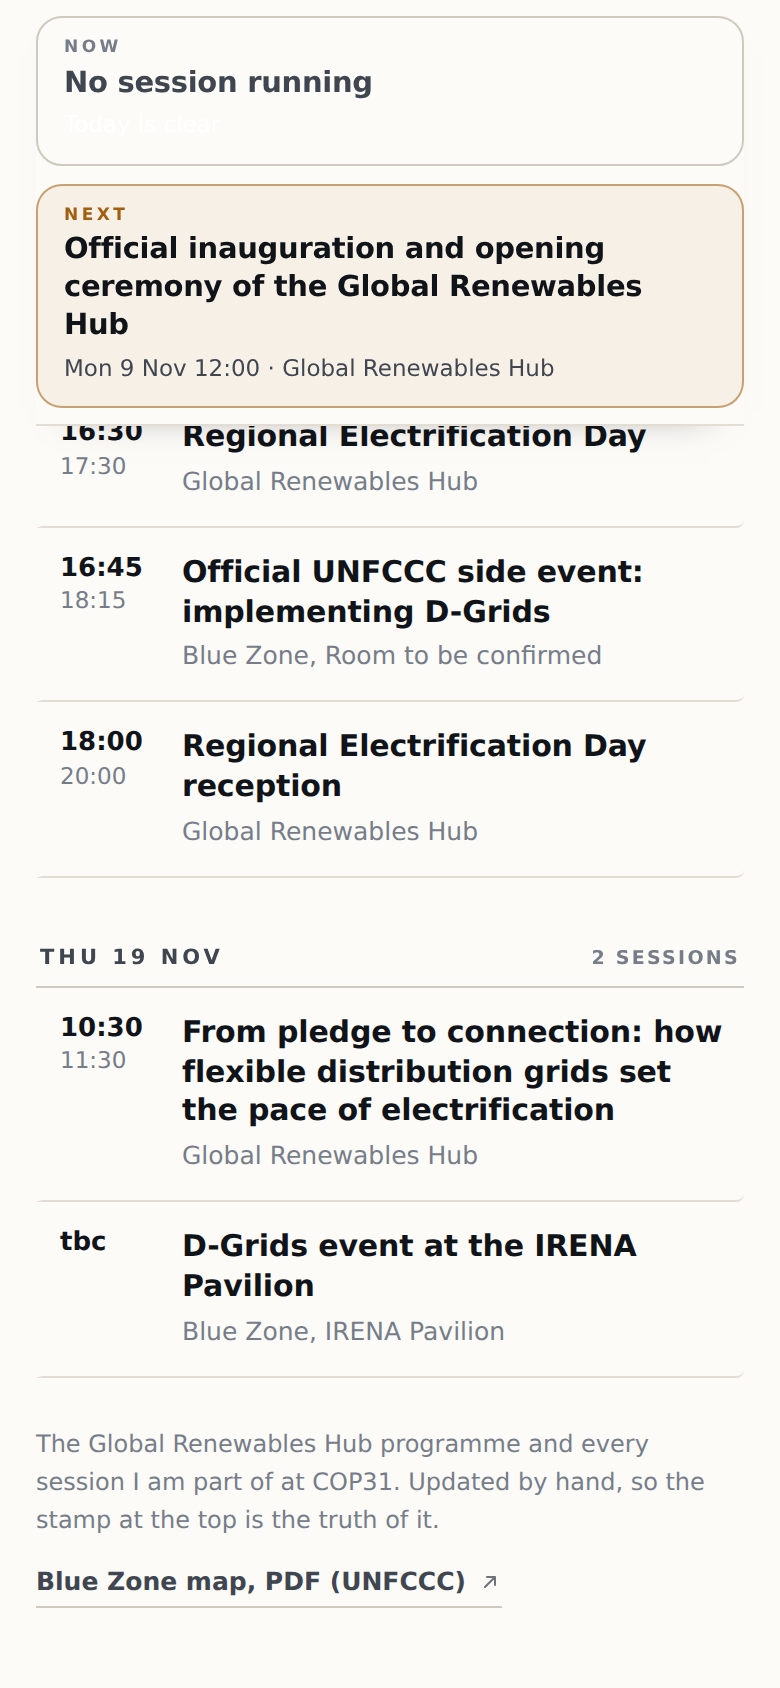
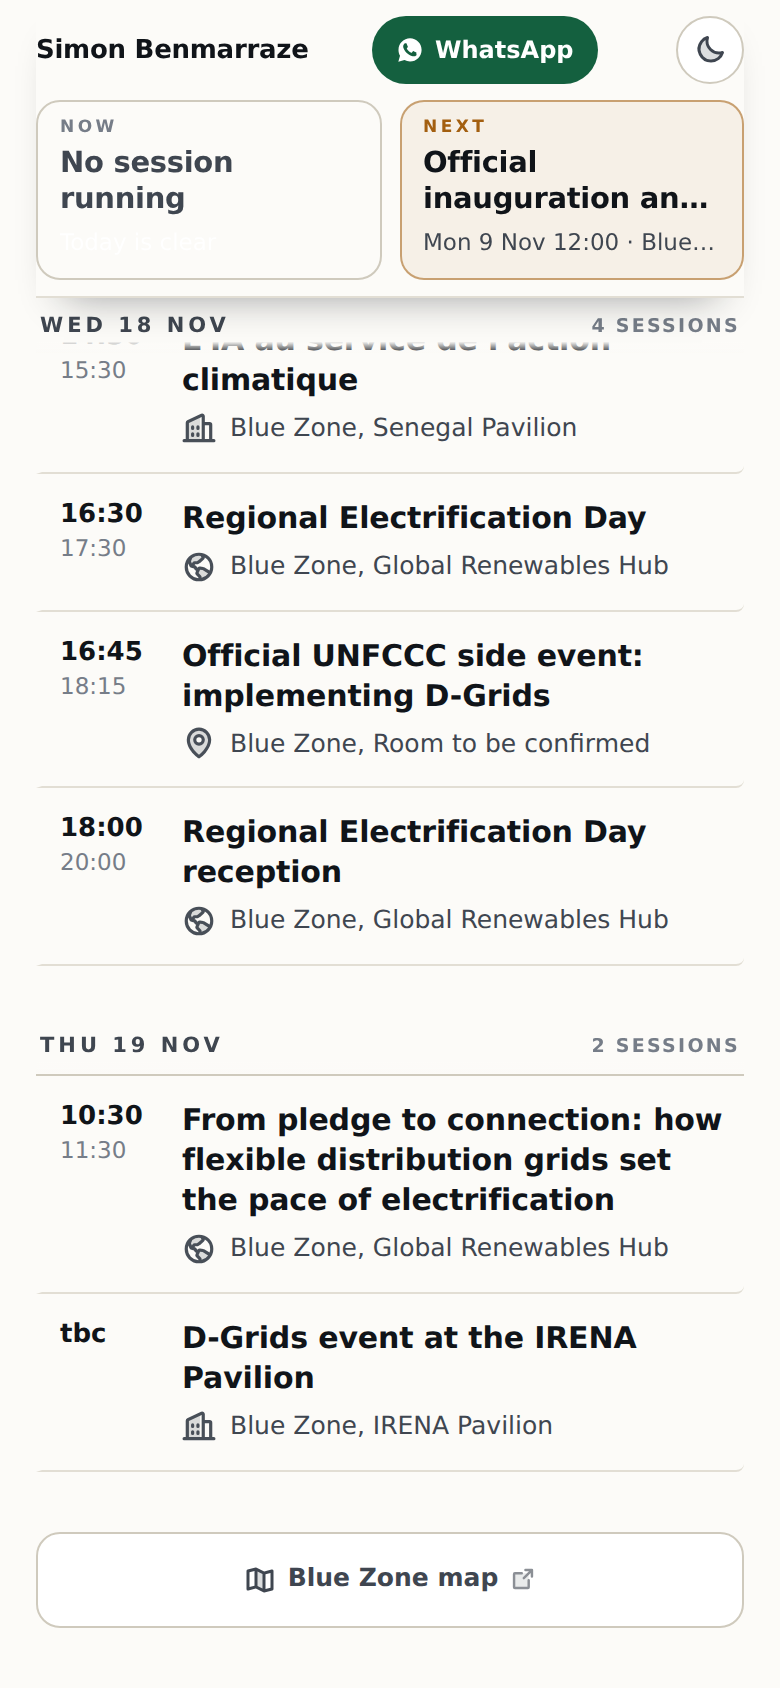
Footer: prose removed, Blue Zone map button moved there

Changed region(s): [[0.0308, 0.0, 0.9538, 0.955], [0.0615, 0.7701, 0.1231, 0.8009], [0.0615, 0.7085, 0.1231, 0.7393]]

diff --git a/docs/index.html b/docs/index.html
@@ -109,7 +109,6 @@ h3{margin:0;font-size:15px;line-height:1.33;font-weight:600;letter-spacing:-.005
 .contact p{margin:0 0 10px;font-size:12.5px;color:var(--ink2);line-height:1.45}
 .contact p b{color:var(--ink);font-weight:640;font-variant-numeric:tabular-nums}
 .actions{display:grid;grid-template-columns:1fr 1fr;gap:9px;align-items:stretch}
-.btn.primary{grid-column:1 / -1}
 .btn svg.ic-btn{width:16px;height:16px}
 .btn{display:flex;align-items:center;justify-content:center;gap:7px;min-height:44px;padding:0 10px;white-space:nowrap;
   border-radius:11px;text-decoration:none;font:640 13.5px/1 ui-sans-serif,system-ui,sans-serif;
@@ -124,6 +123,14 @@ footer .maplink a{display:inline-flex;align-items:center;gap:6px;color:var(--ink
 footer .maplink a:hover{color:var(--ink);border-bottom-color:var(--ink2)}
 footer .maplink svg{width:12px;height:12px;flex:none;opacity:.75}
 footer b{color:var(--ink2);font-weight:600}
+footer{margin-top:30px;padding-top:0;border-top:0;color:var(--faint)}
+.mapfoot{width:100%;min-height:48px;justify-content:center;gap:8px;text-decoration:none;
+  border:1px solid var(--line2);border-radius:12px;background:var(--card);color:var(--ink2);
+  font:640 13.5px/1 ui-sans-serif,system-ui,sans-serif}
+.mapfoot .ic-btn{width:16px;height:16px}
+.mapfoot .ext{display:inline-flex;opacity:.6}
+.mapfoot .ic-ext{width:13px;height:13px}
+.mapfoot:hover{color:var(--ink);border-color:var(--ink2)}
 @media (max-width:560px){
   section.day h2{top:calc(var(--barh,186px) + 2px)}
   .row{grid-template-columns:50px 1fr;gap:11px;padding-left:9px}
@@ -145,7 +152,7 @@ footer b{color:var(--ink2);font-weight:600}
   <div class="eyebrow">IRENA &middot; IITC &middot; Strategic Infrastructure</div>
   <h1>Simon Benmarraze</h1>
   <p class="sub">Where I am at COP31, Antalya, 9 to 20 November 2026</p>
-  <div class="facts"><span class="fact">All times UTC+3</span><span class="fact">54 sessions</span><span class="fact">Updated 7 Nov 2026, 15:22</span></div>
+  <div class="facts"><span class="fact">All times UTC+3</span><span class="fact">54 sessions</span><span class="fact">Updated 7 Nov 2026, 15:25</span></div>
 </header>
 
 <section class="contact">
@@ -159,10 +166,6 @@ footer b{color:var(--ink2);font-weight:600}
     <a class="btn" href="simon.vcf" download>
       <svg class="ic-btn" aria-hidden="true"><use href="#i-download-simple"></use></svg>
       Save contact
-    </a>
-    <a class="btn" href="https://unfccc.int/sites/default/files/resource/COP_31_Blue_Zone_MAP%20%281%29.pdf" target="_blank" rel="noopener">
-      <svg class="ic-btn" aria-hidden="true"><use href="#i-map-trifold"></use></svg>
-      Blue Zone map
     </a>
   </div>
 </section>
@@ -197,8 +200,11 @@ footer b{color:var(--ink2);font-weight:600}
 
 
 <footer>
-  <p>The Global Renewables Hub programme and every session I am part of at COP31.
-  Updated by hand, so the stamp at the top is the truth of it.</p>
+  <a class="btn mapfoot" href="https://unfccc.int/sites/default/files/resource/COP_31_Blue_Zone_MAP%20%281%29.pdf" target="_blank" rel="noopener">
+    <svg class="ic-btn" aria-hidden="true"><use href="#i-map-trifold"></use></svg>
+    Blue Zone map
+    <span class="ext"><svg class="ic-ext" aria-hidden="true"><use href="#i-arrow-square-out"></use></svg></span>
+  </a>
 </footer>
 </main>
 
